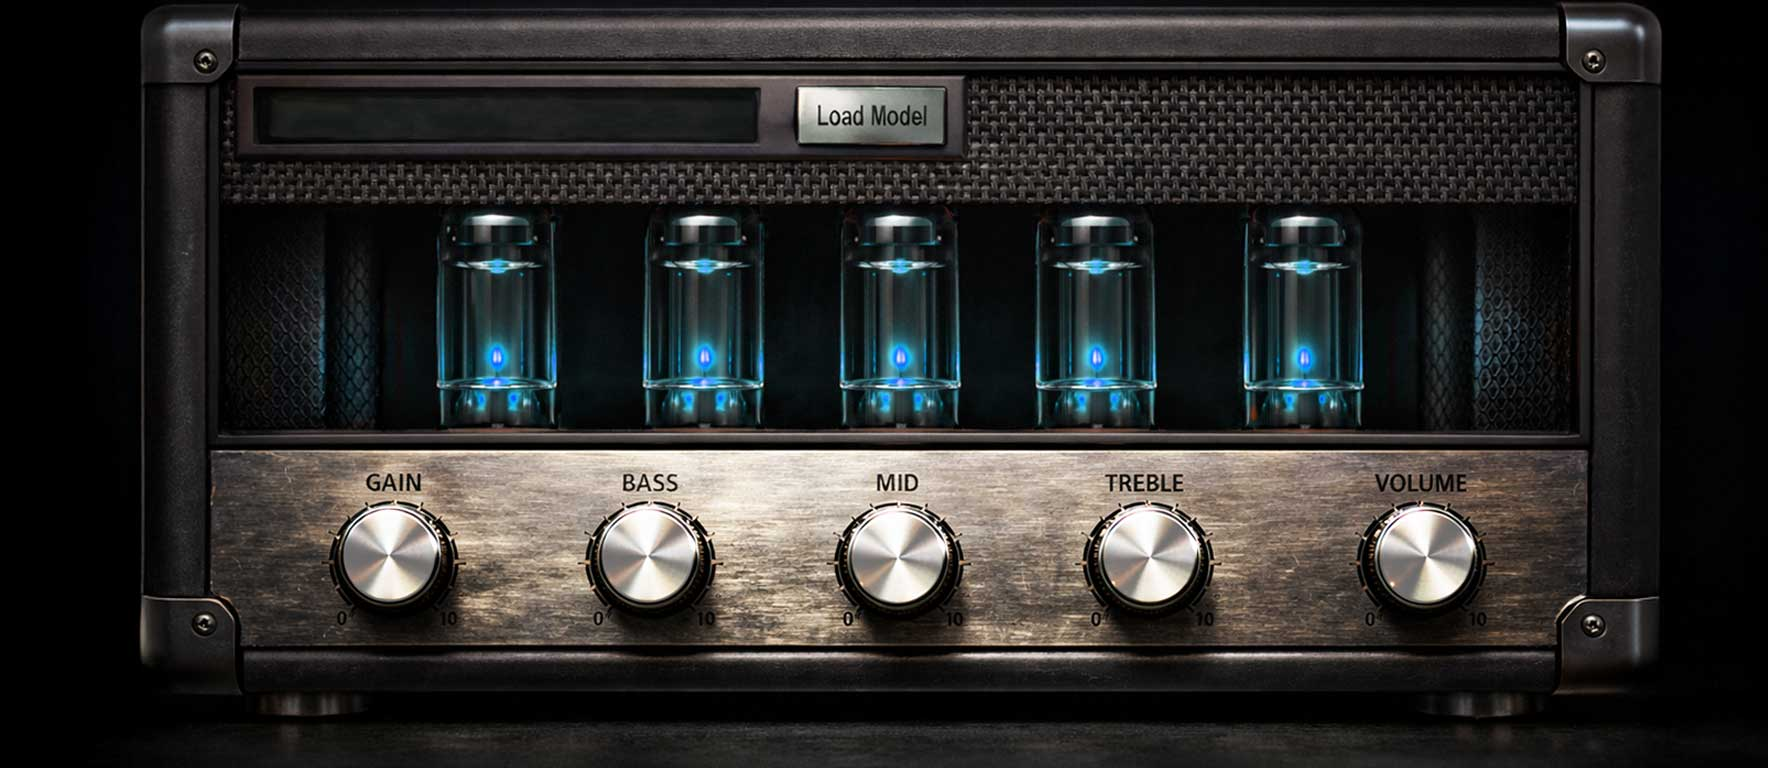
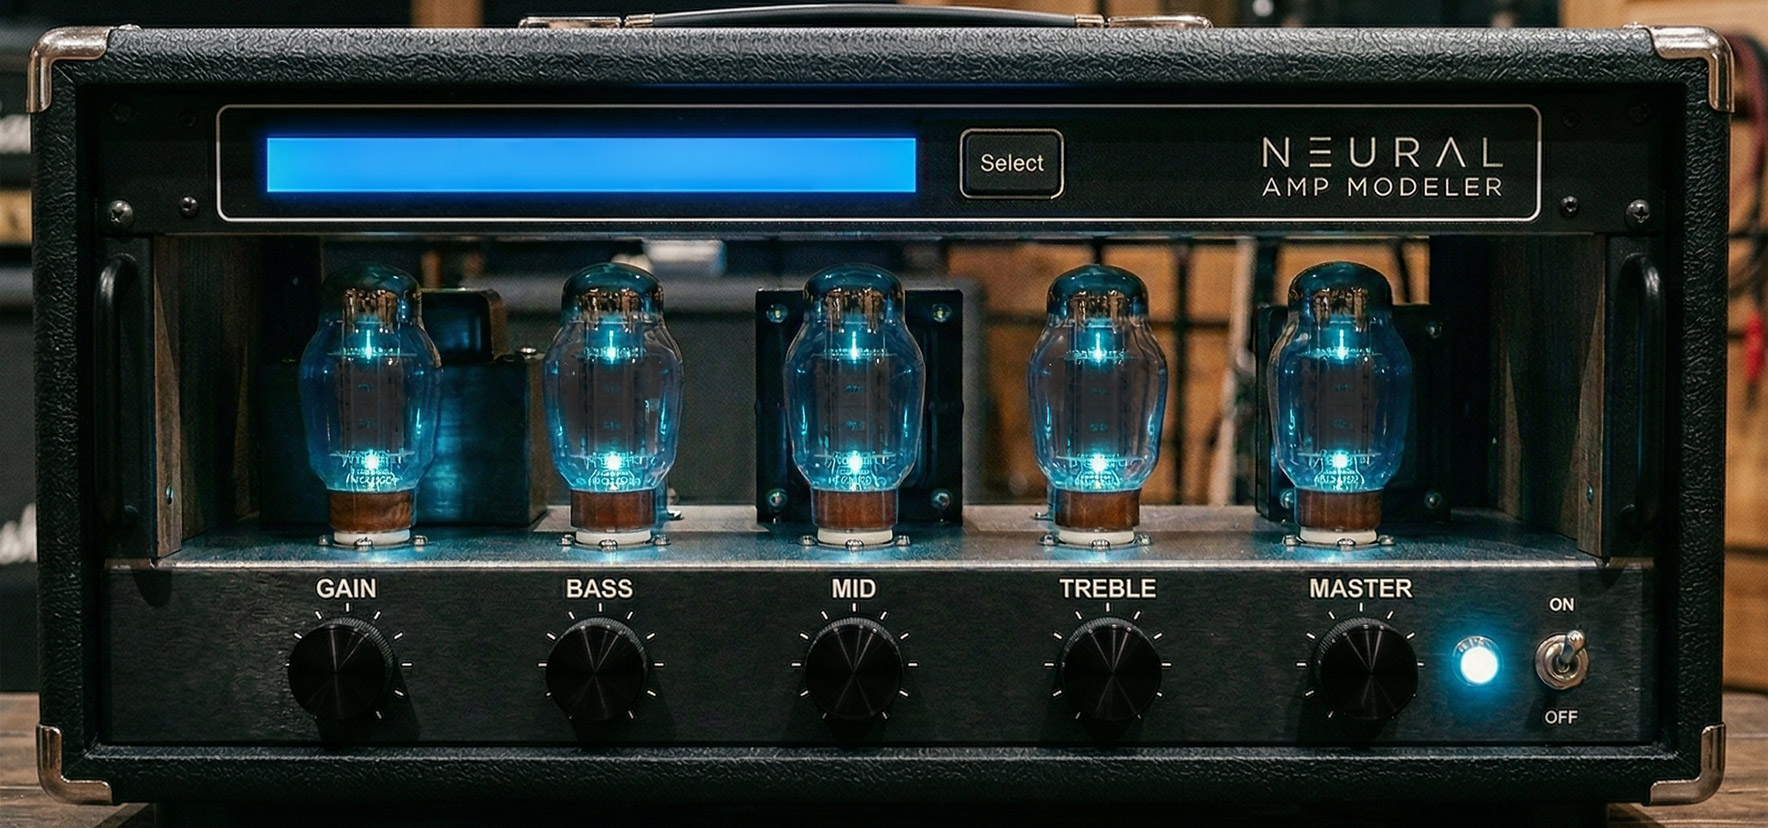
Higher fidelity UI

diff --git a/ui/NAMDevice.vue b/ui/NAMDevice.vue
@@ -7,30 +7,30 @@
     </div>
 
     <div class="neural-tube-container tube-gain">
-      <NeuralTube :width="72" :height="120" :rate="normalizeValue(inputLevelValue, 'input_level')" />
+      <NeuralTube :width="102" :height="160" :rate="normalizeValue(inputLevelValue, 'input_level')" />
     </div>
 
     <div class="neural-tube-container tube-bass">
-      <NeuralTube :width="72" :height="120" :rate="normalizeValue(bassValue, 'bass')" />
+      <NeuralTube :width="102" :height="160" :rate="normalizeValue(bassValue, 'bass')" />
     </div>
 
     <div class="neural-tube-container tube-mid">
-      <NeuralTube :width="72" :height="120" :rate="normalizeValue(midValue, 'mid')" />
+      <NeuralTube :width="102" :height="160" :rate="normalizeValue(midValue, 'mid')" />
     </div>
 
     <div class="neural-tube-container tube-treble">
-      <NeuralTube :width="72" :height="120" :rate="normalizeValue(trebleValue, 'treble')" />
+      <NeuralTube :width="102" :height="160" :rate="normalizeValue(trebleValue, 'treble')" />
     </div>
 
     <div class="neural-tube-container tube-volume">
-      <NeuralTube :width="72" :height="120" :rate="normalizeValue(outputLevelValue, 'output_level')" />
+      <NeuralTube :width="102" :height="160" :rate="normalizeValue(outputLevelValue, 'output_level')" />
     </div>
     <div class="control-knobs">
-      <UIKnob class="knob-gain touchable" :indicatorOffset="20" :size="90" :model-value="inputLevelValue" :min="inputLevelMin" :max="inputLevelMax" @change="onGainChange" />
-      <UIKnob class="knob-bass touchable" :indicatorOffset="20" :size="90" :model-value="bassValue" :min="bassMin" :max="bassMax" @change="onBassChange" />
-      <UIKnob class="knob-mid touchable" :indicatorOffset="20" :size="90" :model-value="midValue" :min="midMin" :max="midMax" @change="onMidChange" />
-      <UIKnob class="knob-treble touchable" :indicatorOffset="20" :size="90" :model-value="trebleValue" :min="trebleMin" :max="trebleMax" @change="onTrebleChange" />
-      <UIKnob class="knob-volume touchable" :indicatorOffset="20" :size="90" :model-value="outputLevelValue" :min="outputLevelMin" :max="outputLevelMax" @change="onVolumeChange" />
+      <UIKnob class="knob-gain touchable" :indicatorOffset="20" :size="92" :model-value="inputLevelValue" :min="inputLevelMin" :max="inputLevelMax" @change="onGainChange" />
+      <UIKnob class="knob-bass touchable" :indicatorOffset="20" :size="92" :model-value="bassValue" :min="bassMin" :max="bassMax" @change="onBassChange" />
+      <UIKnob class="knob-mid touchable" :indicatorOffset="20" :size="92" :model-value="midValue" :min="midMin" :max="midMax" @change="onMidChange" />
+      <UIKnob class="knob-treble touchable" :indicatorOffset="20" :size="92" :model-value="trebleValue" :min="trebleMin" :max="trebleMax" @change="onTrebleChange" />
+      <UIKnob class="knob-volume touchable" :indicatorOffset="20" :size="92" :model-value="outputLevelValue" :min="outputLevelMin" :max="outputLevelMax" @change="onVolumeChange" />
     </div>
 
     <!-- File Browser Modal -->
@@ -418,9 +418,9 @@ onUnmounted(() => {
 <style>
 .nam-ui .model-display {
   position: absolute;
-  top: 56px;
-  left: 240px;
-  width: 700px;
+  top: 72px;
+  left: 248px;
+  width: 880px;
   height: 80px;
   display: flex;
   align-items: center;
@@ -474,33 +474,33 @@ onUnmounted(() => {
 }
 
 .nam-ui .tube-gain {
-  top: 265px;
-  left: 463px;
+  top: 272px;
+  left: 322px;
 }
 
 .nam-ui .tube-bass {
-  top: 265px;
-  left: 670px;
+  top: 272px;
+  left: 560px;
 }
 
 .nam-ui .tube-mid {
-  top: 265px;
-  left: 869px;
+  top: 272px;
+  left: 806px;
 }
 
 .nam-ui .tube-treble {
-  top: 265px;
-  left: 1058px;
+  top: 272px;
+  left: 1048px;
 }
 
 .nam-ui .tube-volume {
-  top: 265px;
-  left: 1270px;
+  top: 272px;
+  left: 1290px;
 }
 
 .nam-ui .control-knobs {
   position: absolute;
-  top: 465px;
+  top: 552px;
   left: 0px;
   display: block;
 }
@@ -511,23 +511,23 @@ onUnmounted(() => {
 }
 
 .nam-ui .control-knobs .knob-gain {
-  left: 335px;
+  left: 280px;
 }
 
 .nam-ui .control-knobs .knob-bass {
-  left: 594px;
+  left: 540px;
 }
 
 .nam-ui .control-knobs .knob-mid {
-  left: 844px;
+  left: 798px;
 }
 
 .nam-ui .control-knobs .knob-treble {
-  left: 1095px;
+  left: 1057px;
 }
 
 .nam-ui .control-knobs .knob-volume {
-  left: 1367px;
+  left: 1314px;
 }
 
 .nam-ui .control-knobs .knob-arc {
@@ -538,6 +538,6 @@ onUnmounted(() => {
 }
 
 .nam-ui .control-knobs .knob-indicator {
-  background-color: #000;
+  background-color: #FFF;
 }
 </style>

diff --git a/ui/NeuralTube.vue b/ui/NeuralTube.vue
@@ -48,17 +48,18 @@ class Particle {
   }
 
   adjustedSpeed() {
-    return config.speed + (2 * props.rate);
+    return this.speed + (2 * props.rate);
   }
 
   adjustedSwirl() {
-    return config.swirl + (2 * props.rate);
+    return this.swirlSpeed + (2 * props.rate);
   }
 
   reset() {
     this.z = Math.random();
     this.angle = Math.random() * Math.PI * 2;
     this.speed = (Math.random() * 0.6 + 0.4) * config.speed;
+    this.swirlSpeed = (Math.random() * 0.6 + 0.4) * config.swirl;
     this.alpha = 0;
     this.size = Math.random() * 1.2 + 0.6;
     this.yOffset = Math.random() * 2 - 1;

diff --git a/src/pick_processor.h b/src/pick_processor.h
@@ -17,10 +17,10 @@ public:
 		for (uint32_t i = 0; i < n_samples; i++) {
 			float x = buffer[i];
 
-			// 1. Detection high-pass filter (1-pole HPF on detection path only)
-			float detect = x - hpfState;
-			hpfState += hpfCoeff * detect;
-			detect = x - hpfState;
+			// 1. Detection high-pass filter (~1.2kHz, detection path only)
+			float detect = x - detectHpfState;
+			detectHpfState += detectHpfCoeff * detect;
+			detect = x - detectHpfState;
 
 			// 2. Envelope follower
 			float absDetect = fabsf(detect);
@@ -35,18 +35,28 @@ public:
 				attack = 0.0f;
 			prevEnvelope = envelope;
 
-			// 4. Attack strength
-			float attackStrength = attack * sensitivity;
+			// 4. Transient envelope (always positive)
+			transientEnv += attack * sensitivity;
+			transientEnv *= decayCoeff;
 
-			// 5. Transient envelope generation
-			transientState += attackStrength * pickAmount;
-			transientState *= decayCoeff;
+			// 5. Audio-path HPF at ~2kHz to isolate bright/pick content
+			float lpf = audioLpfState + audioHpfCoeff * (x - audioLpfState);
+			audioLpfState = lpf;
+			float bright = x - lpf;
 
-			// 6. Gain calculation (soft limiter)
-			float gain = 1.0f + tanhf(transientState);
+			// 6. Modulate bright content during transients
+			//    tanhf(transientEnv) is 0..1, pickAmount is -1..1
+			//    positive pickAmount: boost bright during transients
+			//    negative pickAmount: cut bright during transients (max 50%)
+			float mod = tanhf(transientEnv) * pickAmount;
 
-			// 7. Output
-			buffer[i] = x * gain;
+			float brightGain;
+			if (mod >= 0.0f)
+				brightGain = mod;            // boost: 0 to ~1.0 (doubles bright)
+			else
+				brightGain = mod * 0.5f;     // cut: 0 to -0.5 (halves bright)
+
+			buffer[i] = x + brightGain * bright;
 		}
 	}
 
@@ -54,25 +64,31 @@ private:
 	void recalcCoefficients() {
 		releaseCoeff = expf(-1.0f / (releaseTime * (float)sampleRate));
 		decayCoeff = expf(-1.0f / (decayTime * (float)sampleRate));
-		hpfCoeff = 1.0f - expf(-2.0f * (float)M_PI * detectHpfFreq / (float)sampleRate);
+		detectHpfCoeff = 1.0f - expf(-2.0f * (float)M_PI * detectHpfFreq / (float)sampleRate);
+		audioHpfCoeff = 1.0f - expf(-2.0f * (float)M_PI * audioHpfFreq / (float)sampleRate);
 	}
 
 	double sampleRate = 48000.0;
 
-	// Internal parameters (defaults from spec)
+	// Internal parameters
 	float sensitivity = 6.0f;
 	float decayTime = 0.015f;      // 15 ms
 	float releaseTime = 0.010f;    // 10 ms
-	float detectHpfFreq = 1200.0f; // Hz
+	float detectHpfFreq = 1200.0f; // Hz - detection path
+	float audioHpfFreq = 2000.0f;  // Hz - audio path crossover
 
 	// Coefficients
 	float releaseCoeff = 0.0f;
 	float decayCoeff = 0.0f;
-	float hpfCoeff = 0.0f;
+	float detectHpfCoeff = 0.0f;
+	float audioHpfCoeff = 0.0f;
 
-	// State
-	float hpfState = 0.0f;
+	// Detection state
+	float detectHpfState = 0.0f;
 	float envelope = 0.0f;
 	float prevEnvelope = 0.0f;
-	float transientState = 0.0f;
+	float transientEnv = 0.0f;
+
+	// Audio path state
+	float audioLpfState = 0.0f;
 };
